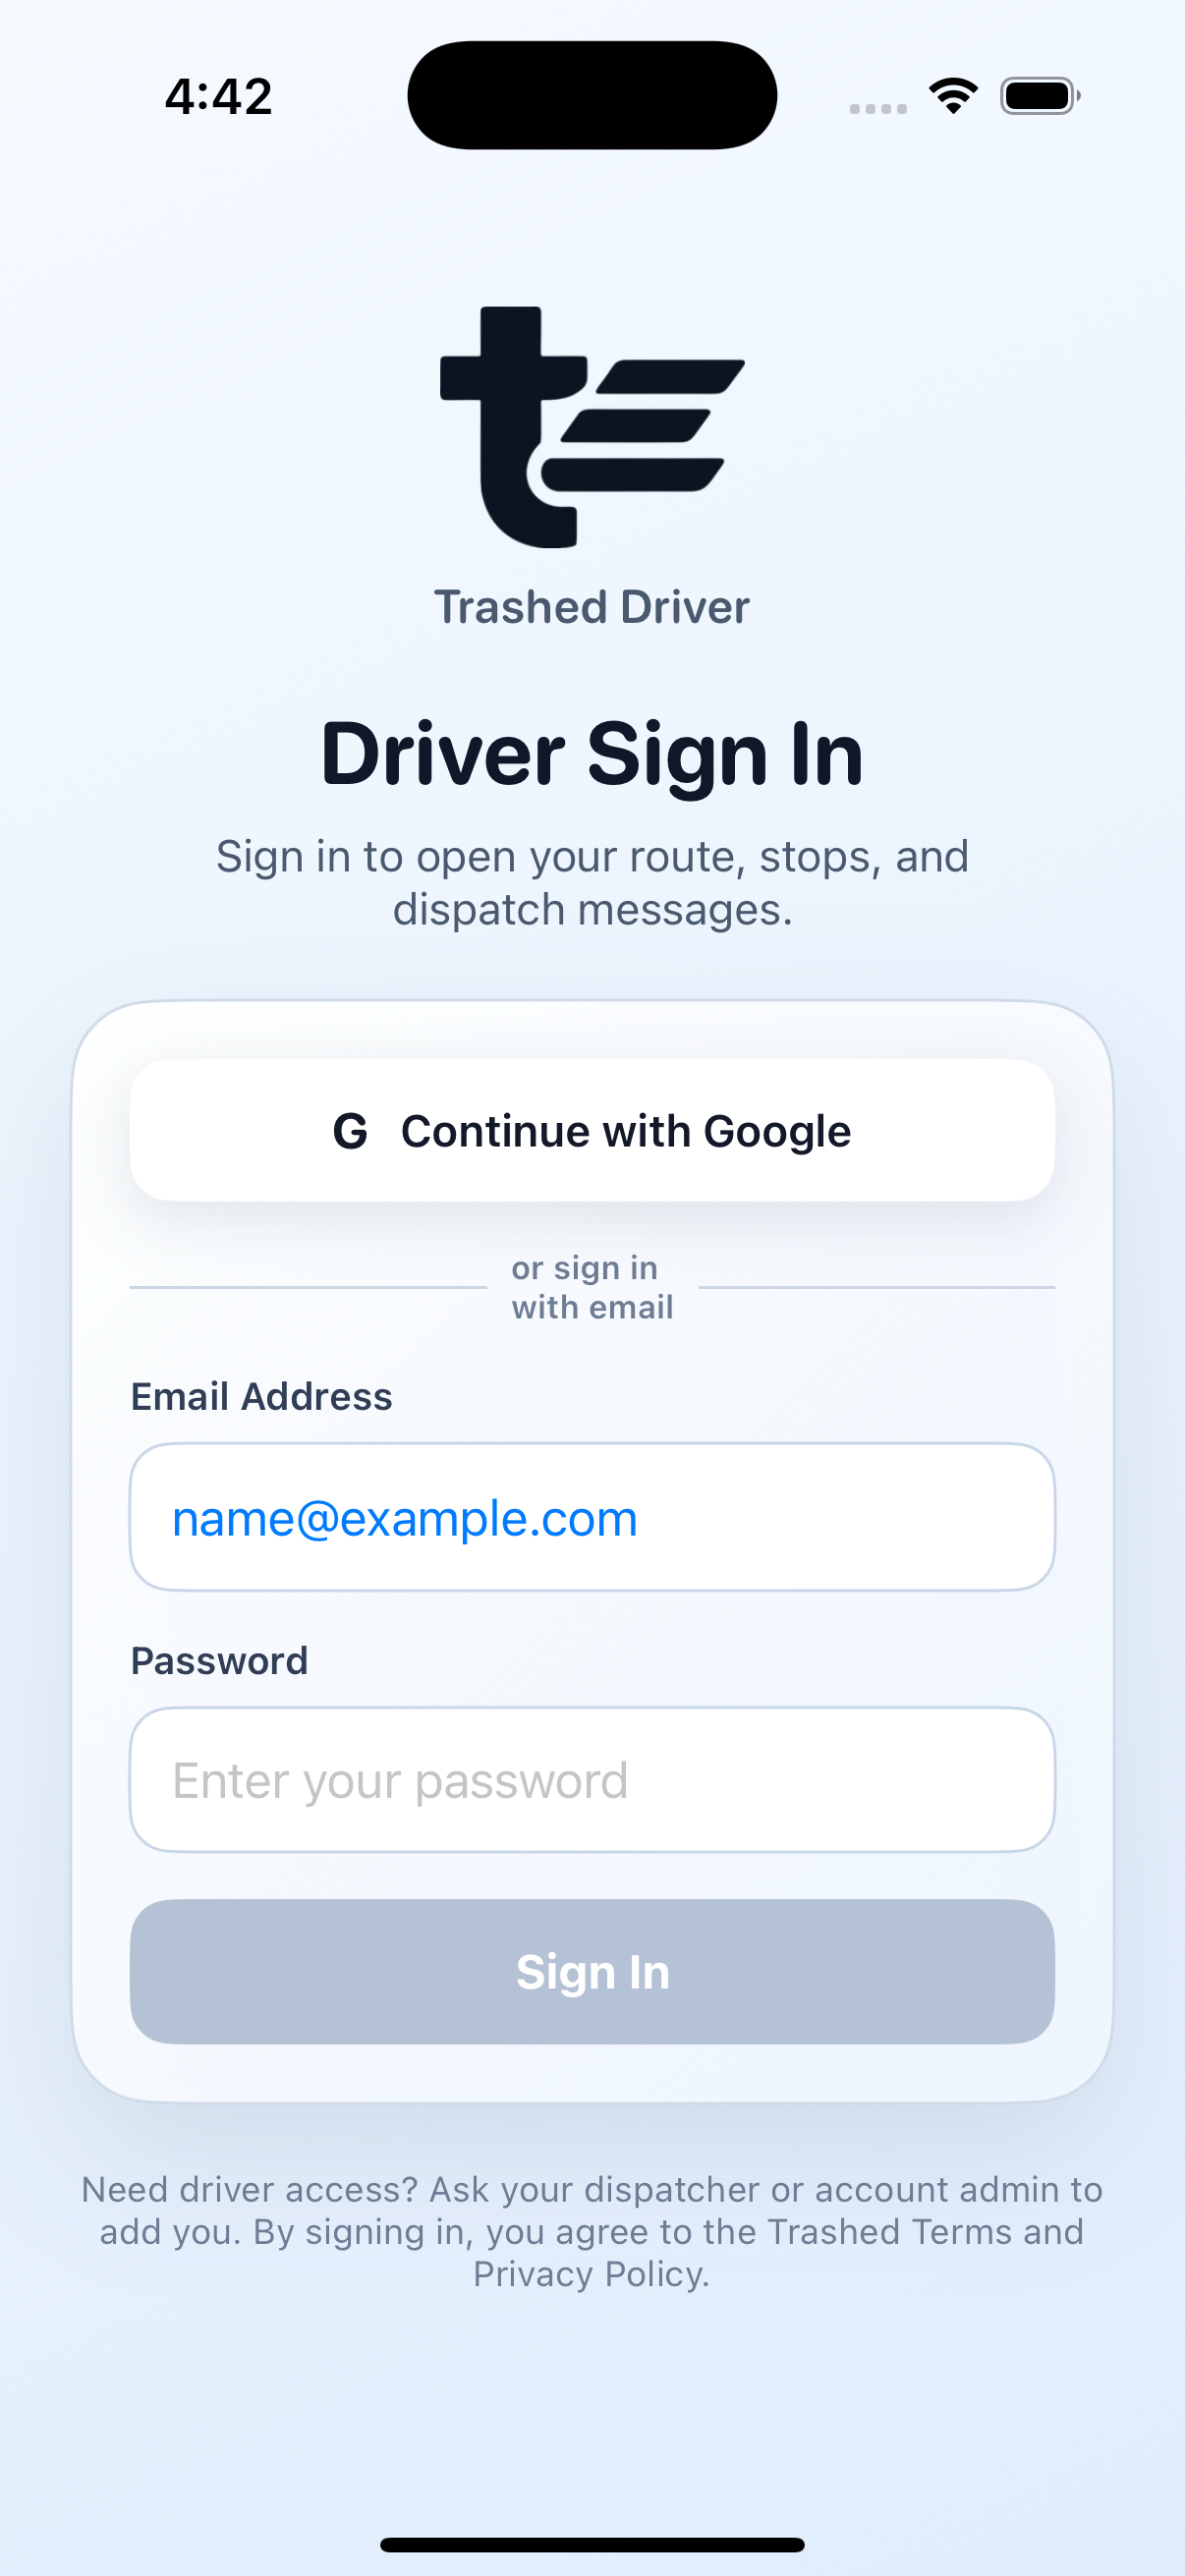
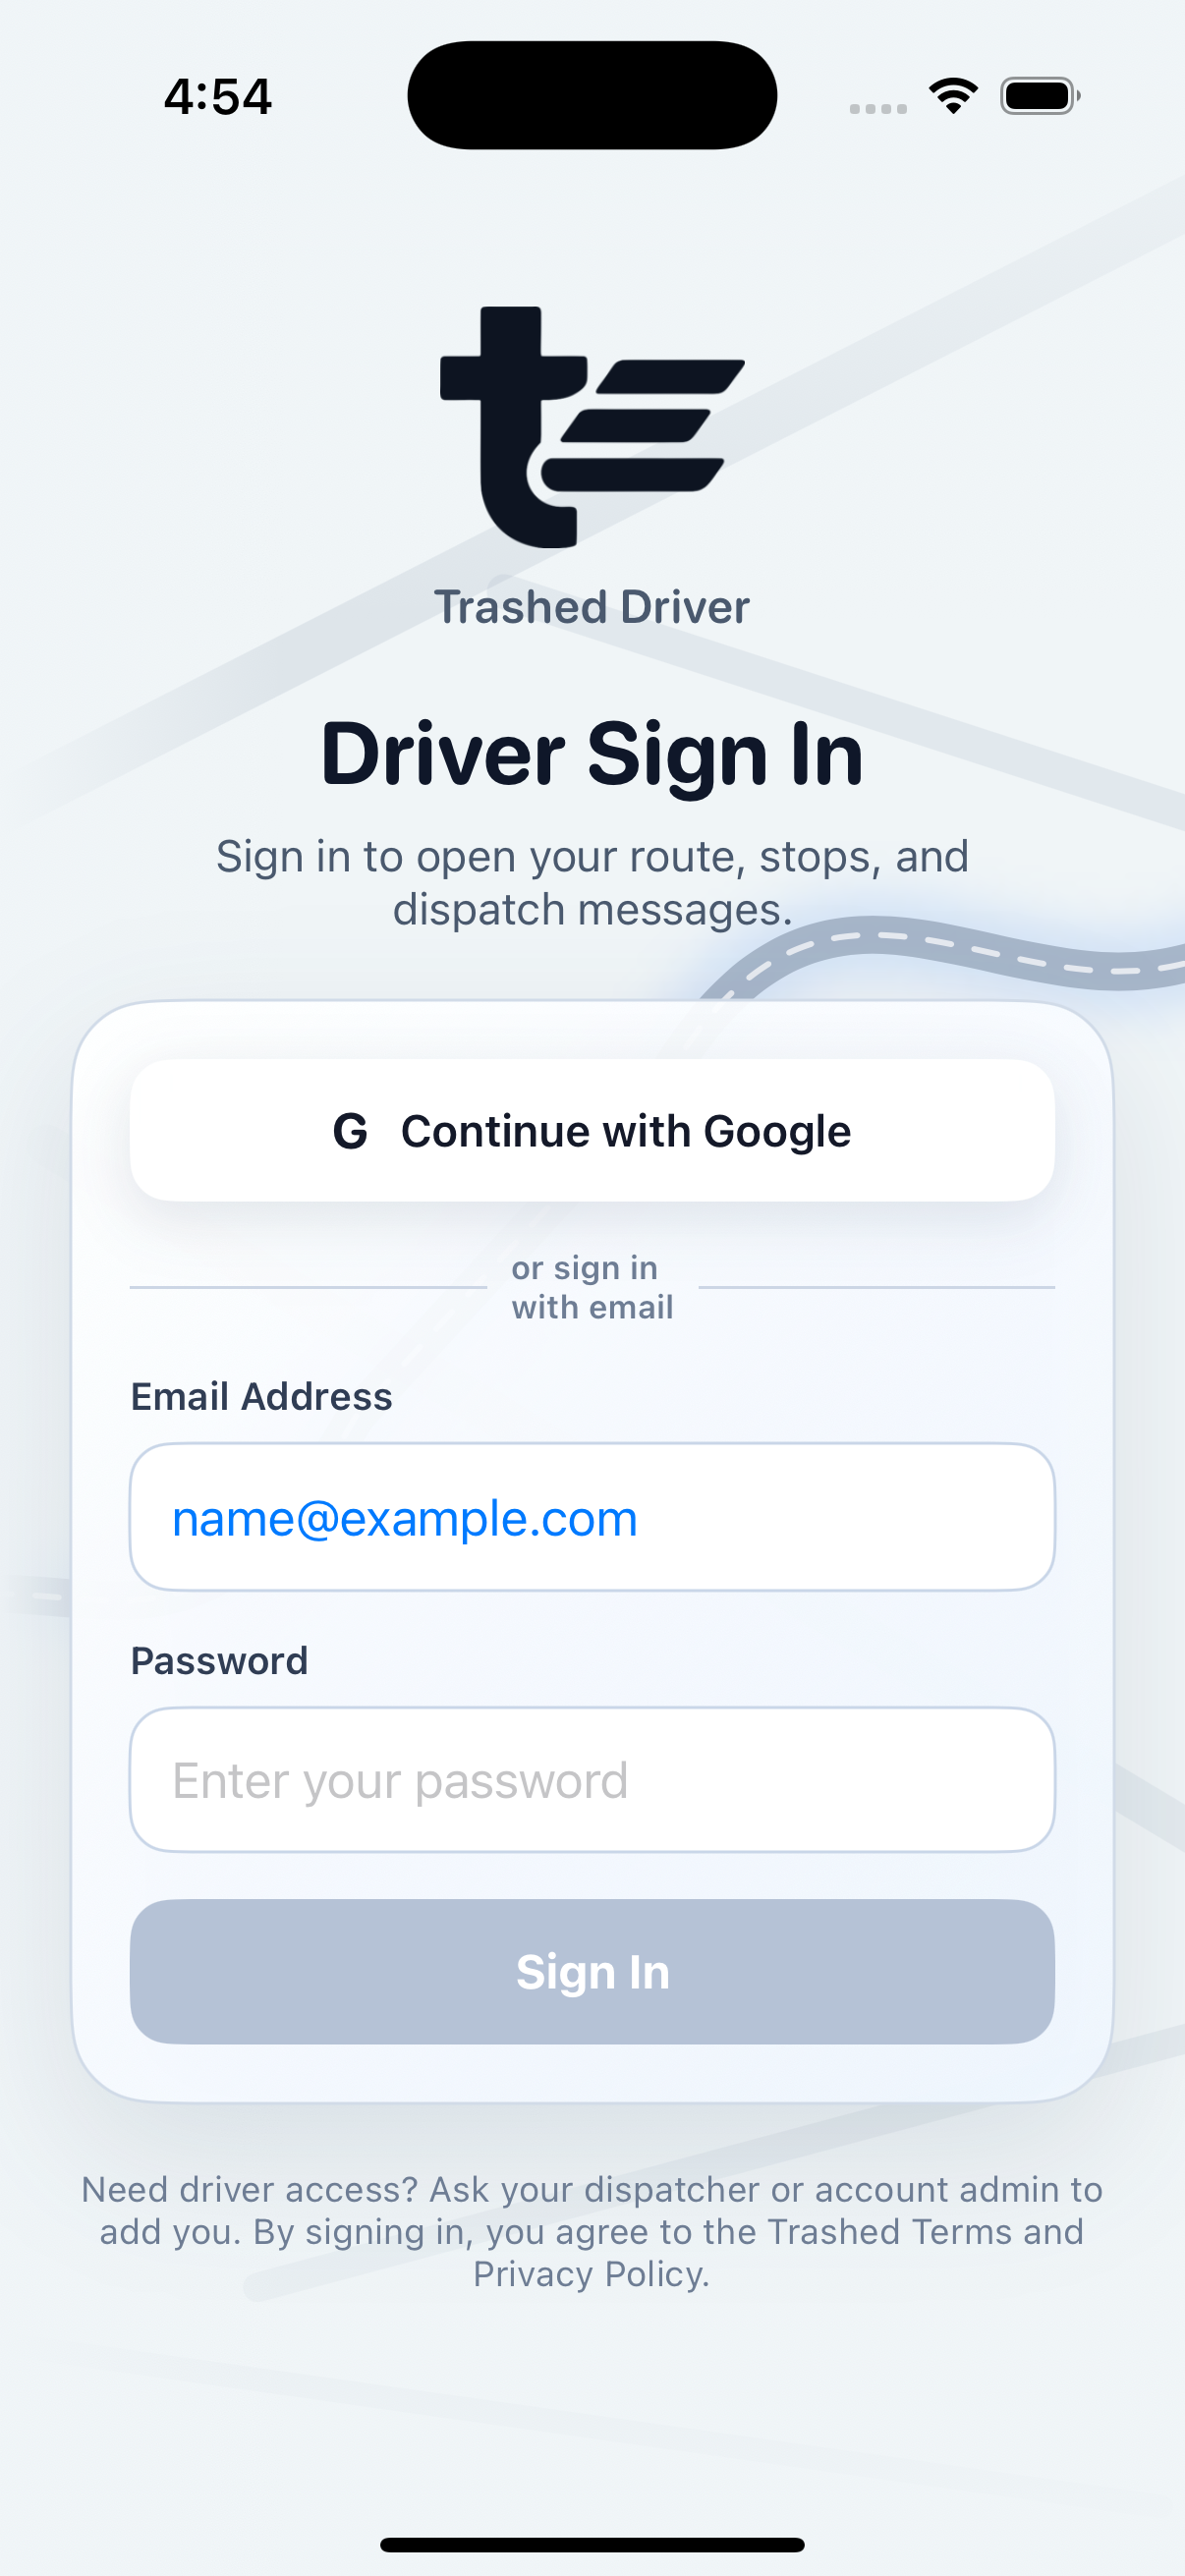
Match login background to driver map

Changed region(s): [[0.5829, 0.3398, 1.0, 0.4016], [0.1534, 0.0309, 0.2454, 0.0618]]

diff --git a/ios/App/App/MainViewController.swift b/ios/App/App/MainViewController.swift
@@ -413,23 +413,6 @@ private struct NativeDriverLoginView: View {
         colorScheme == .light
     }
 
-    private var pageGradient: LinearGradient {
-        LinearGradient(
-            gradient: Gradient(colors: isLightMode
-                ? [
-                    Color(red: 0.96, green: 0.98, blue: 1.00),
-                    Color(red: 0.88, green: 0.93, blue: 0.99),
-                ]
-                : [
-                    Color(red: 0.02, green: 0.04, blue: 0.09),
-                    Color(red: 0.06, green: 0.10, blue: 0.20),
-                ]
-            ),
-            startPoint: .topLeading,
-            endPoint: .bottomTrailing
-        )
-    }
-
     private var logoColor: Color {
         isLightMode ? Color(red: 0.05, green: 0.08, blue: 0.13) : .white
     }
@@ -493,7 +476,7 @@ private struct NativeDriverLoginView: View {
 
     var body: some View {
         ZStack {
-            pageGradient.edgesIgnoringSafeArea(.all)
+            DriverLoginMapBackground(isLightMode: isLightMode)
 
             ScrollView {
                 VStack(spacing: 22) {
@@ -664,4 +647,114 @@ private struct NativeDriverLoginView: View {
             errorMessage = message
         }
     }
+}
+
+private struct DriverLoginMapBackground: View {
+    let isLightMode: Bool
+
+    private static let roads = [
+        DriverLoginMapRoad(id: 0, width: 1.45, thickness: 18, x: -0.18, y: -0.32, rotation: -27, opacity: 0.20),
+        DriverLoginMapRoad(id: 1, width: 1.30, thickness: 12, x: 0.28, y: -0.18, rotation: 18, opacity: 0.16),
+        DriverLoginMapRoad(id: 2, width: 1.18, thickness: 14, x: -0.22, y: 0.08, rotation: 31, opacity: 0.14),
+        DriverLoginMapRoad(id: 3, width: 1.50, thickness: 10, x: 0.18, y: 0.30, rotation: -15, opacity: 0.14),
+        DriverLoginMapRoad(id: 4, width: 1.05, thickness: 8, x: -0.28, y: 0.44, rotation: 8, opacity: 0.12),
+    ]
+
+    private var baseColor: Color {
+        isLightMode ? Color(red: 0.94, green: 0.96, blue: 0.97) : Color(red: 0.04, green: 0.04, blue: 0.04)
+    }
+
+    private var tileRoadColor: Color {
+        isLightMode ? Color(red: 0.58, green: 0.64, blue: 0.72) : Color(red: 0.20, green: 0.24, blue: 0.31)
+    }
+
+    private var routeGlowColor: Color {
+        isLightMode ? Color(red: 0.23, green: 0.51, blue: 0.96) : Color(red: 0.31, green: 0.27, blue: 0.90)
+    }
+
+    private var routeSurfaceColor: Color {
+        isLightMode ? Color(red: 0.58, green: 0.64, blue: 0.72) : Color(red: 0.12, green: 0.16, blue: 0.23)
+    }
+
+    private var routeCenterColor: Color {
+        isLightMode ? .white : Color(red: 0.39, green: 0.40, blue: 0.95)
+    }
+
+    var body: some View {
+        GeometryReader { proxy in
+            let size = proxy.size
+
+            ZStack {
+                baseColor
+
+                ForEach(Self.roads) { road in
+                    RoundedRectangle(cornerRadius: road.thickness / 2, style: .continuous)
+                        .fill(tileRoadColor.opacity(road.opacity))
+                        .frame(width: size.width * road.width, height: road.thickness)
+                        .rotationEffect(.degrees(road.rotation))
+                        .offset(x: size.width * road.x, y: size.height * road.y)
+                }
+
+                routePath(in: size)
+                    .stroke(routeGlowColor.opacity(isLightMode ? 0.16 : 0.24), style: StrokeStyle(lineWidth: 28, lineCap: .round, lineJoin: .round))
+                    .blur(radius: 8)
+
+                routePath(in: size)
+                    .stroke(routeSurfaceColor.opacity(isLightMode ? 0.72 : 0.86), style: StrokeStyle(lineWidth: 13, lineCap: .round, lineJoin: .round))
+
+                routePath(in: size)
+                    .stroke(routeCenterColor.opacity(isLightMode ? 0.72 : 0.92), style: StrokeStyle(lineWidth: 2, lineCap: .round, lineJoin: .round, dash: isLightMode ? [8, 8] : []))
+
+                mapFogOverlay
+            }
+        }
+        .edgesIgnoringSafeArea(.all)
+    }
+
+    private var mapFogOverlay: some View {
+        ZStack {
+            VStack(spacing: 0) {
+                LinearGradient(gradient: Gradient(colors: [baseColor, baseColor.opacity(0)]), startPoint: .top, endPoint: .bottom)
+                    .frame(height: 210)
+                Spacer()
+                LinearGradient(gradient: Gradient(colors: [baseColor.opacity(0), baseColor]), startPoint: .top, endPoint: .bottom)
+                    .frame(height: 180)
+            }
+
+            HStack(spacing: 0) {
+                LinearGradient(gradient: Gradient(colors: [baseColor, baseColor.opacity(0)]), startPoint: .leading, endPoint: .trailing)
+                    .frame(width: 96)
+                Spacer()
+                LinearGradient(gradient: Gradient(colors: [baseColor.opacity(0), baseColor]), startPoint: .leading, endPoint: .trailing)
+                    .frame(width: 96)
+            }
+        }
+    }
+
+    private func routePath(in size: CGSize) -> Path {
+        var path = Path()
+        path.move(to: CGPoint(x: -size.width * 0.16, y: size.height * 0.64))
+        path.addCurve(
+            to: CGPoint(x: size.width * 0.30, y: size.height * 0.55),
+            control1: CGPoint(x: size.width * 0.04, y: size.height * 0.58),
+            control2: CGPoint(x: size.width * 0.14, y: size.height * 0.68)
+        )
+        path.addLine(to: CGPoint(x: size.width * 0.56, y: size.height * 0.42))
+        path.addCurve(
+            to: CGPoint(x: size.width * 1.16, y: size.height * 0.32),
+            control1: CGPoint(x: size.width * 0.74, y: size.height * 0.28),
+            control2: CGPoint(x: size.width * 0.92, y: size.height * 0.46)
+        )
+        return path
+    }
+}
+
+private struct DriverLoginMapRoad: Identifiable {
+    let id: Int
+    let width: CGFloat
+    let thickness: CGFloat
+    let x: CGFloat
+    let y: CGFloat
+    let rotation: Double
+    let opacity: Double
 }